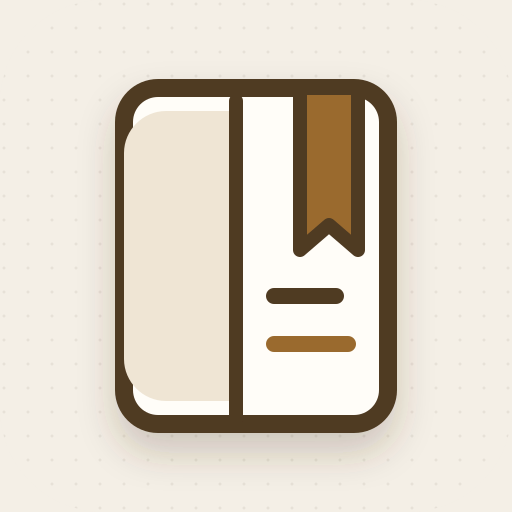
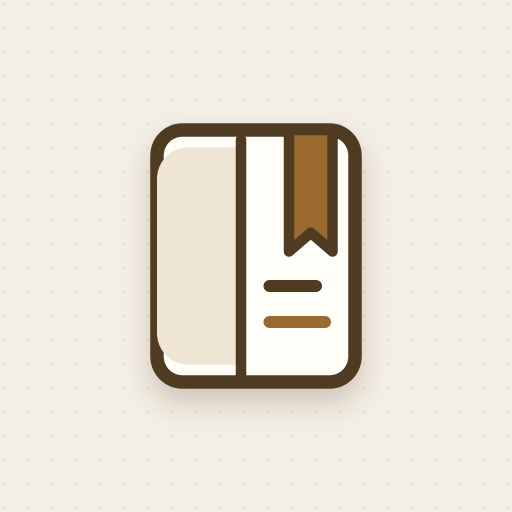
fix: 为 Android 桌面图标留出裁切空间并统一阅读系统栏配色

Changed region(s): [[0.2188, 0.1562, 0.7812, 0.875]]

diff --git a/.nextjs-site/components/Header.tsx b/.nextjs-site/components/Header.tsx
@@ -41,7 +41,7 @@ export default function Header({ mode = 'home', bookTitle, shareConfig, onMenuCl
   };
 
   return (
-    <header className={`app-header sticky top-0 z-50 bg-[#fffdf8]/90 backdrop-blur-xl border-b border-stone-200/80 shadow-[0_1px_0_rgba(79,58,35,0.08)] ${mode === 'home' ? 'hidden md:block' : 'block'}`}>
+    <header className={`app-header sticky top-0 z-50 bg-(--color-surface) border-b border-stone-200/80 shadow-[0_1px_0_rgba(79,58,35,0.08)] ${mode === 'home' ? 'hidden md:block' : 'block'}`}>
       <div className="mx-auto w-full px-4 md:px-6">
         <div className="flex items-center justify-between h-14 md:h-16">
 

diff --git a/.nextjs-site/components/BottomNav.tsx b/.nextjs-site/components/BottomNav.tsx
@@ -36,7 +36,7 @@ export default function BottomNav() {
   };
 
   return (
-    <nav className="md:hidden fixed bottom-0 left-0 right-0 z-40 bg-[#fffdf8]/92 backdrop-blur-xl border-t border-stone-200/90 shadow-[0_-18px_40px_-30px_rgba(79,58,35,0.8)]">
+    <nav className="md:hidden fixed bottom-0 left-0 right-0 z-40 bg-(--color-surface) border-t border-stone-200/90 shadow-[0_-18px_40px_-30px_rgba(79,58,35,0.8)]">
       <div className="grid grid-cols-4 px-2 pb-[env(safe-area-inset-bottom)]">
         {tabs.map(tab => {
           const active = isActive(tab.href);

diff --git a/.nextjs-site/app/layout.tsx b/.nextjs-site/app/layout.tsx
@@ -46,7 +46,7 @@ export const metadata: Metadata = {
 };
 
 export const viewport: Viewport = {
-  themeColor: '#9a6b2f',
+  themeColor: '#fffdf8',
 };
 
 export default function RootLayout({
